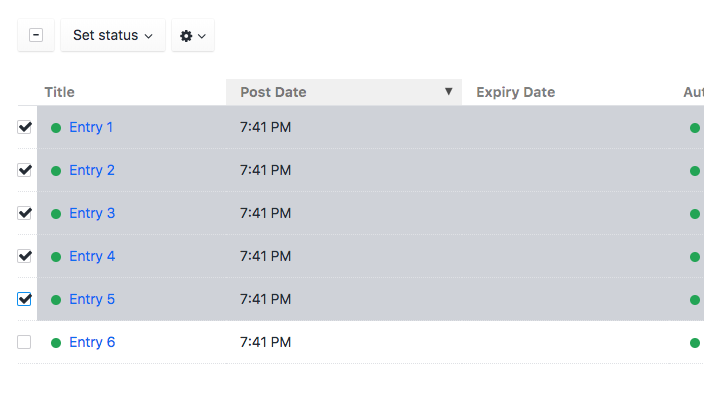
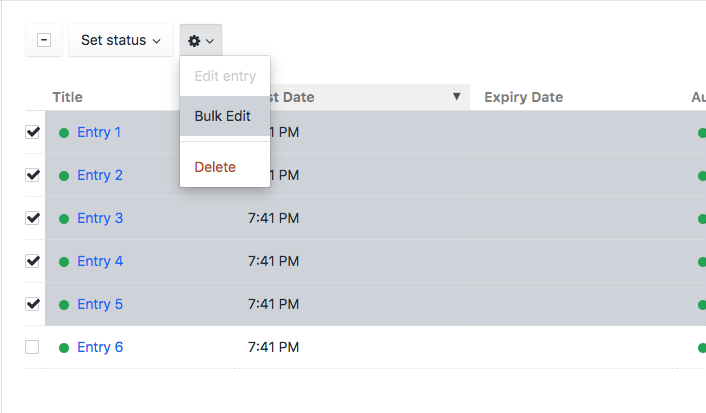
Update readme and screenshots

diff --git a/README.md b/README.md
@@ -1,5 +1,35 @@
-# Bulk Edit plugin for Craft CMS 3.x
-This plugin is built to offer extended editing functionality of a set of Craft entries.
+# Bulk Edit plugin for Craft CMS 3.2
+
+## Overview
+The Bulk Edit plugin adds an action to supported element index pages that allows you to edit fields on a large number of
+elements at once. Currently, the following element types are supported:
+- Entries
+- Categories
+- Assets
+- Users
+- Craft Commerce Products
+
+Additionally, some fields support different strategies for the edit process. At the moment, any field that works with
+ "relations" (such as Entries, Categories, Assets, etc) supports the following strategies:
+ - Replace: Replaces all content in the field
+ - Merge: Merges the selected elements into the relation field
+ - Subtract: Removes the selected elements from the relation field
+
+## Instructions
+1. Navigate to a supported element index page and select any number of elements
+2. Click the gear at the top of the page and select "Bulk Edit"
+3. Enable the light-switches next to the fields you're interested in editing and select a strategy
+4. Click next and enter the content for the fields
+5. Once you click Save, a task will be dispatched to the queue, at which point you will need to refresh the page for 
+Craft to pick it up. After the queue has finished, you may reload the page and see your changes.
+
+## Limitation & Issues
+* Custom fields and Matrix fields are not currently supported due to issues that arise when a field is rendered without 
+single entry selected.
+* Currently, there isn't a way to edit properties on elements that are not custom fields (for example, title, slug, 
+post date, etc)
+* Validation is not enforced when you're editing these fields, this means you can end up with elements with fields in 
+potentially erroneous states (for example, removing all content on a required field)
 
 ## Steps to use:
 ![Screenshot](resources/img/screenshot1.png)
@@ -8,7 +38,7 @@ This plugin is built to offer extended editing functionality of a set of Craft e
 
 ## Requirements
 
-This plugin requires Craft CMS 3.0.0 or later.
+This plugin requires Craft CMS 3.2.0 or later.
 
 ## Installation
 
@@ -23,8 +53,5 @@ To install the plugin, follow these instructions.
         composer require venveo/craft-bulkedit
 
 3. In the Control Panel, go to Settings → Plugins and click the “Install” button for Bulk Edit.
-
-## Known Issues
-* I've had to disabled custom field support as well as Matrix support for the moment. Some refactoring will need to be done to support these types of fields.
 
 Brought to you by [Venveo](https://venveo.com)
